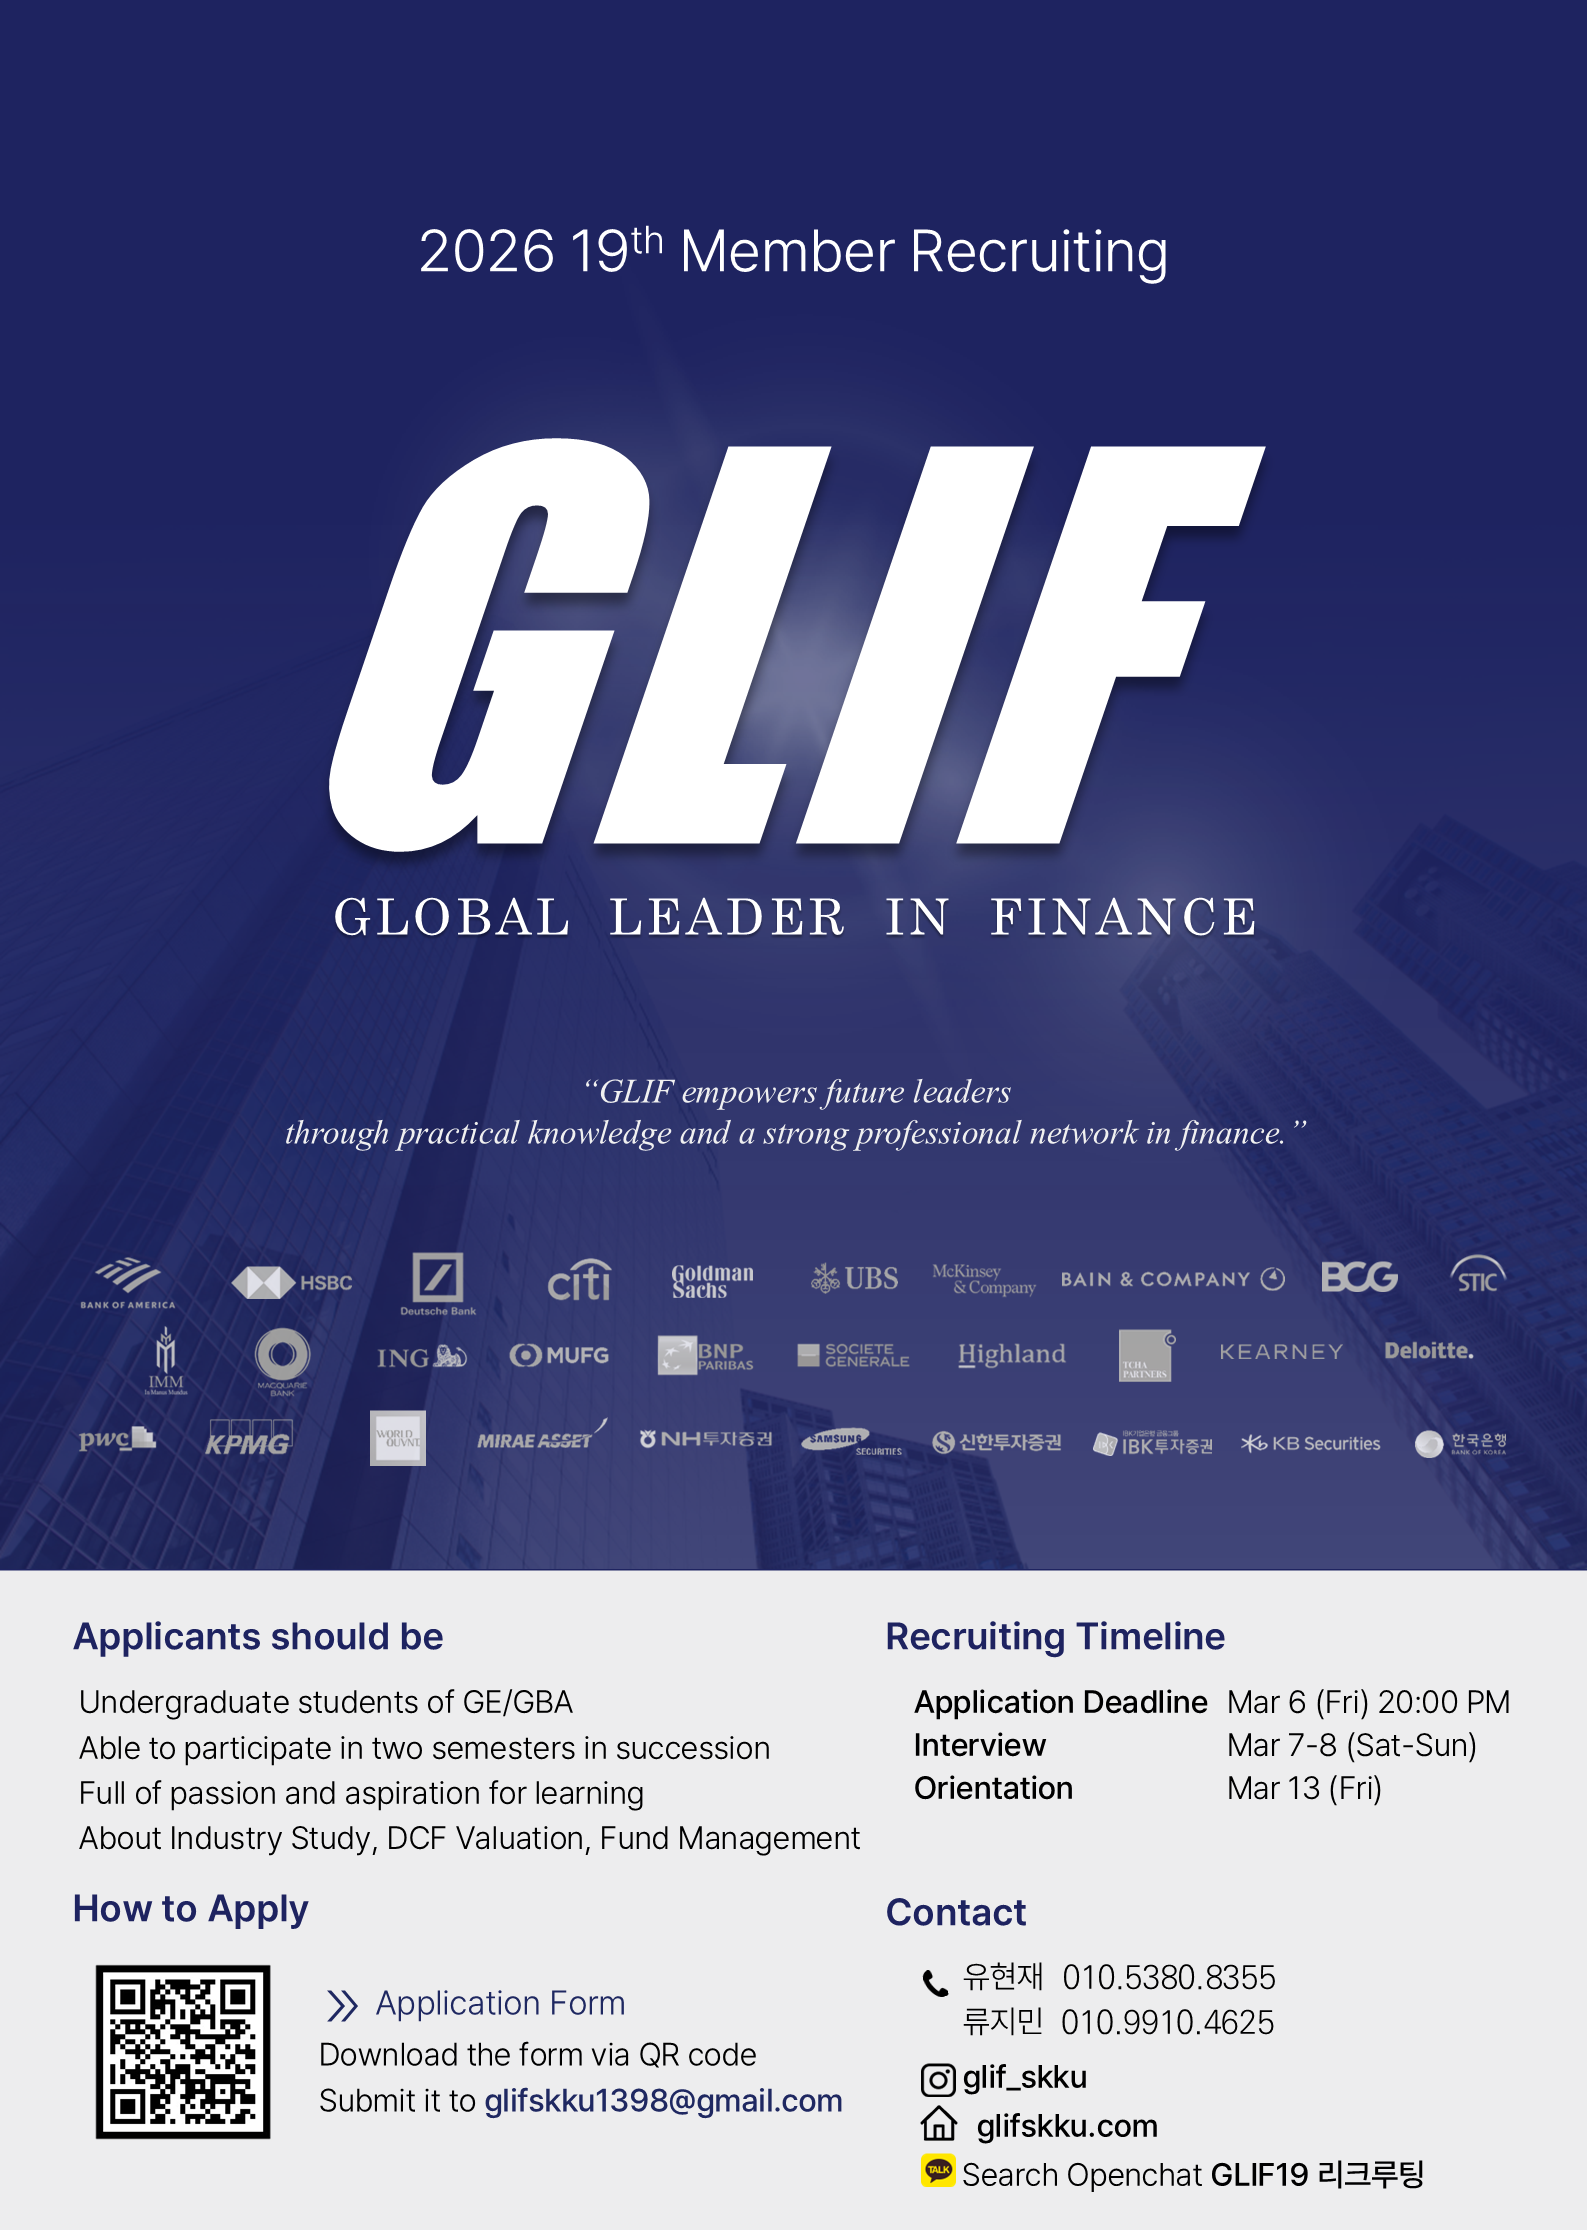
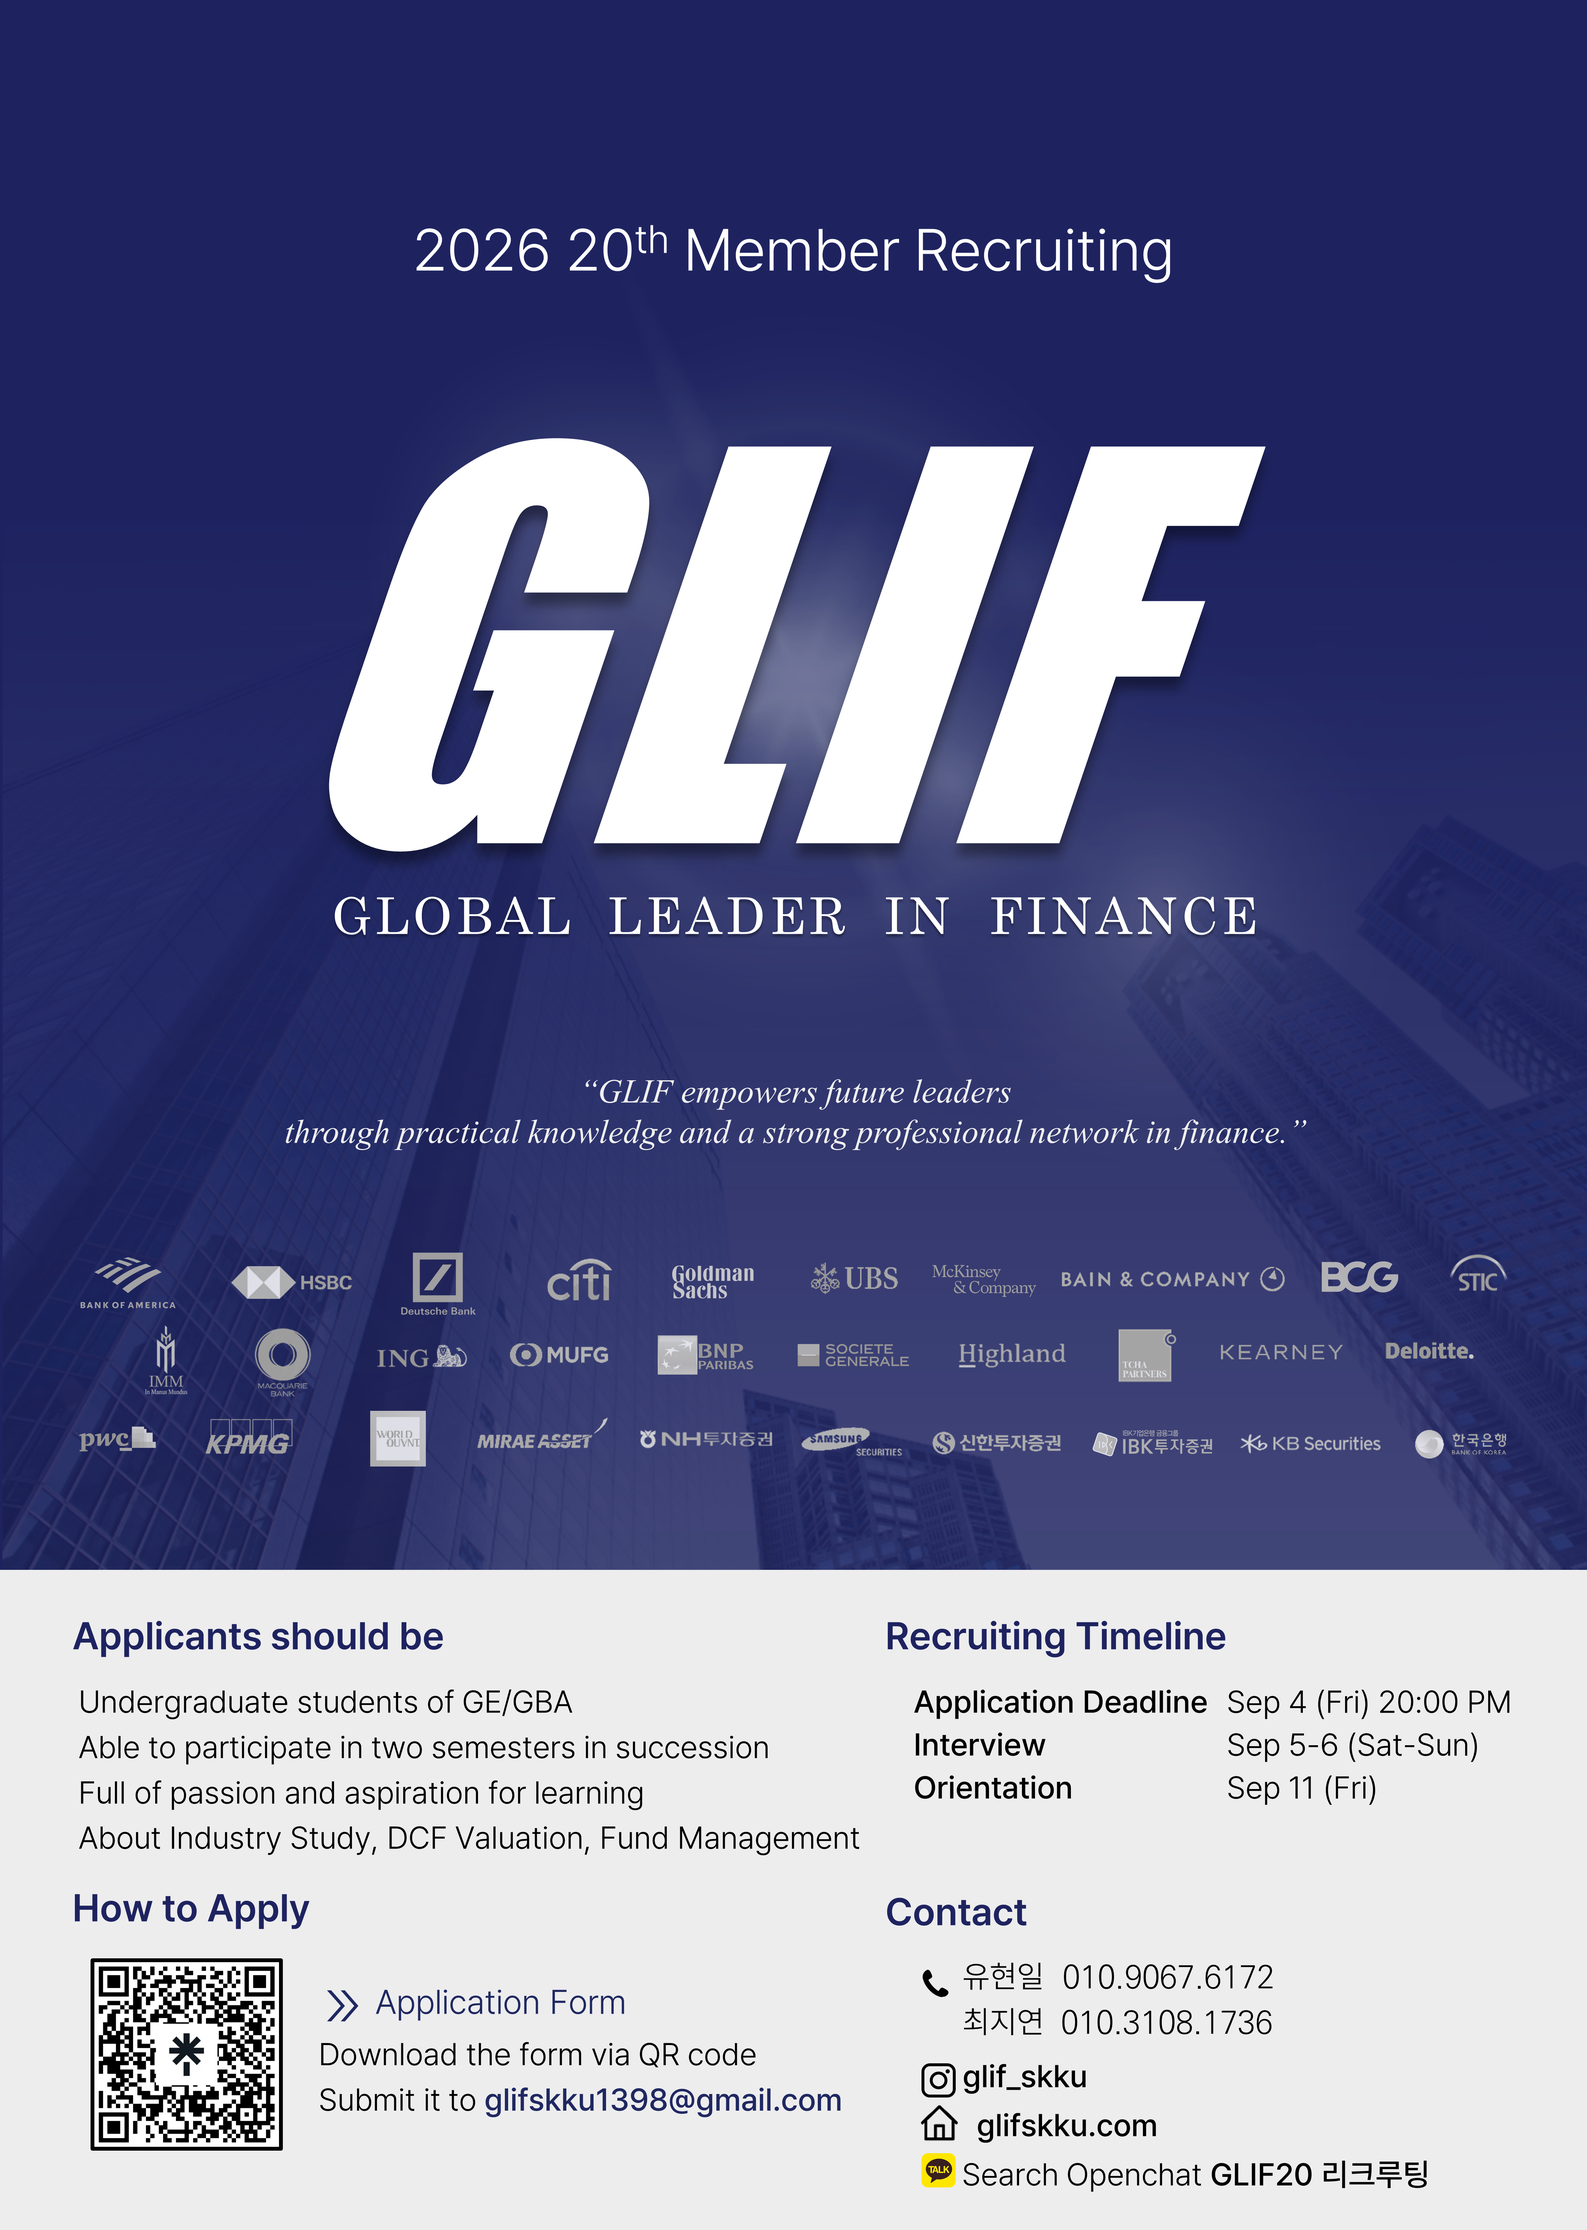
Update recruiting for 20th generation (26-2)
- Replace recruiting poster with 26-2 GLIF Recruiting Poster A2
- Change 19기 to 20기 on recruit-poster page (meta, alt, body text)
- Update FAQ Q2 with 20기 interview schedule (9/5-9/6)
- Update FAQ Q4 with 26-2 semester end date (12/4)
- Add "GLIF 20기 지원서" CTA button next to About Us on hero

diff --git a/recruit-poster.html b/recruit-poster.html
@@ -4,7 +4,7 @@
 <meta charset="UTF-8" />
 <meta name="viewport" content="width=device-width, initial-scale=1" />
 <title>Recruiting 공고 · GLIF</title>
-<meta name="description" content="GLIF 19기 리쿠르팅 공고" />
+<meta name="description" content="GLIF 20기 리쿠르팅 공고" />
 <link rel="icon" type="image/png" href="assets/favicon-32.png" />
 <link rel="apple-touch-icon" href="assets/apple-touch-icon.png" />
 <link rel="preconnect" href="https://fonts.googleapis.com" />
@@ -31,10 +31,10 @@
   <div class="wrap">
     <h2 class="section-title" style="text-align:center; margin-bottom:48px;">Recruiting 공고</h2>
     <div class="rp-poster-wrap">
-      <img src="assets/recruiting-poster.png" alt="GLIF 19기 리쿠르팅 포스터" />
+      <img src="assets/recruiting-poster.png" alt="GLIF 20기 리쿠르팅 포스터" />
     </div>
     <p class="rp-text">
-      글리프 19기 지원서를 다운로드하여 양식에 맞게 작성한 후, 마감일 전까지 PDF 파일로 변환하여 하단의 메일로 보내주시기 바랍니다.
+      글리프 20기 지원서를 다운로드하여 양식에 맞게 작성한 후, 마감일 전까지 PDF 파일로 변환하여 하단의 메일로 보내주시기 바랍니다.
       당일 자정까지 수신 확인 이메일을 보내드릴 예정입니다. 혹시 받지 못하신 분들은 회장 전화번호로 연락 부탁드립니다. 감사합니다.
     </p>
   </div>

diff --git a/styles.css b/styles.css
@@ -71,6 +71,18 @@ a    { color: inherit; text-decoration: none; }
 }
 .hero .btn-hero:hover { background: rgba(14,22,64,.96); transform: translateY(-2px); }
 
+/* Hero buttons row (About Us + 리쿠르팅 기간 한정 지원서 버튼) */
+.hero .hero-btns {
+  display: flex; flex-wrap: wrap; justify-content: center; align-items: center;
+  gap: 14px; margin-top: 38px;
+}
+.hero .hero-btns .btn-hero { margin: 0; }
+.hero .btn-hero-apply {
+  background: rgba(255,255,255,.92); color: var(--navy-deep);
+  box-shadow: 0 4px 20px rgba(10,18,45,.18);
+}
+.hero .btn-hero-apply:hover { background: #fff; transform: translateY(-2px); }
+
 /* ===== Section base ===== */
 .section { padding-block: clamp(72px, 9vw, 120px); }
 .section-title {
@@ -1009,6 +1021,8 @@ html:has(.fp) .team-struct-panel .section-title { font-size: clamp(20px, 3vw, 36
   .hero p { font-size: 12px; margin-top: 10px; text-align: center; max-width: 100%; }
   .hero p br { display: none; }
   .hero .btn-hero { margin-top: 16px; padding: 9px 22px; font-size: 12px; }
+  .hero .hero-btns { margin-top: 16px; gap: 8px; }
+  .hero .hero-btns .btn-hero { margin: 0; padding: 9px 18px; font-size: 11px; }
   /* Oversized hero-bg so parallax translateY has room without showing gap at top */
   .hero-bg { top: -25%; bottom: auto; height: 150%; }
 

diff --git a/recruit.html b/recruit.html
@@ -93,7 +93,7 @@
           <span class="faq-icon">+</span>
         </button>
         <div class="faq-a">
-          대면 면접으로 진행됩니다. 19기 리쿠르팅 면접은 3월 6일 1차 서류 합격자 발표 이후 3/7(토), 3/8(일)에
+          대면 면접으로 진행됩니다. 20기 리쿠르팅 면접은 9월 4일 1차 서류 합격자 발표 이후 9/5(토), 9/6(일)에
           국제관 강의실에서 진행될 예정입니다. 면접은 총 30분 정도 소요될 예정이며, 일대다 형식으로 진행됩니다.
         </div>
       </div>
@@ -117,7 +117,7 @@
         </button>
         <div class="faq-a">
           GLIF에는 월요일, 금요일 7시에 정기 세션이 있습니다. 각 세션은 2시간 가량 소요되고,
-          금요일 세션 이후에는 회식이 있습니다. 26-1학기의 경우 6월 5일 최종 프로젝트 발표를 마지막으로 활동이 종료됩니다.
+          금요일 세션 이후에는 회식이 있습니다. 26-2학기의 경우 12월 4일 최종 프로젝트 발표를 마지막으로 활동이 종료됩니다.
         </div>
       </div>
 

diff --git a/index.html b/index.html
@@ -44,7 +44,12 @@
         <p>GLIF는 성균관대학교 글로벌 경제학과 &amp; 글로벌 경영학과 대상 금융투자학회입니다.<br />
            Industry &amp; Company Research, DCF Valuation, Asset Management 등 다양한 프로젝트를 통해<br />
            한국을 넘어 글로벌 무대에서 꿈을 펼칠 차세대 리더를 양성합니다.</p>
-        <a href="about.html" class="btn-hero">About Us</a>
+        <div class="hero-btns">
+          <a href="about.html" class="btn-hero">About Us</a>
+          <!-- ▼▼ 리쿠르팅 기간 한정 버튼 · 모집 종료 시 아래 <a> 태그 한 줄만 삭제하면 됩니다 ▼▼ -->
+          <a href="https://docs.google.com/document/d/1R0kxLXN_h0Dra-gbnxjja-QQHuP8FrFJKJekfj0yDd8/edit?tab=t.0" class="btn-hero btn-hero-apply" target="_blank" rel="noopener">GLIF 20기 지원서</a>
+          <!-- ▲▲ 리쿠르팅 기간 한정 버튼 끝 ▲▲ -->
+        </div>
       </div>
     </section>
 
